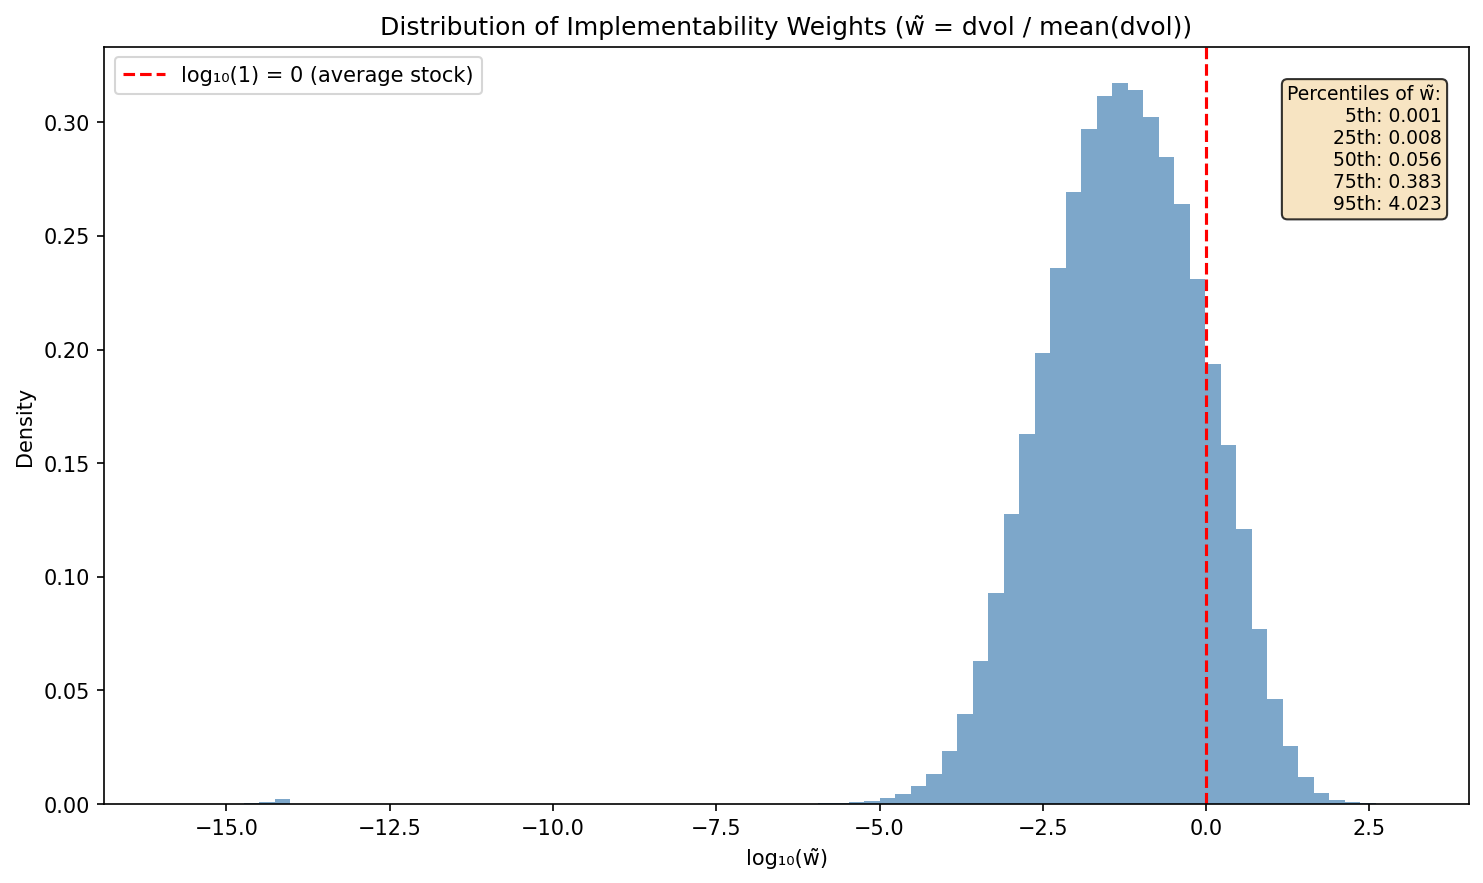
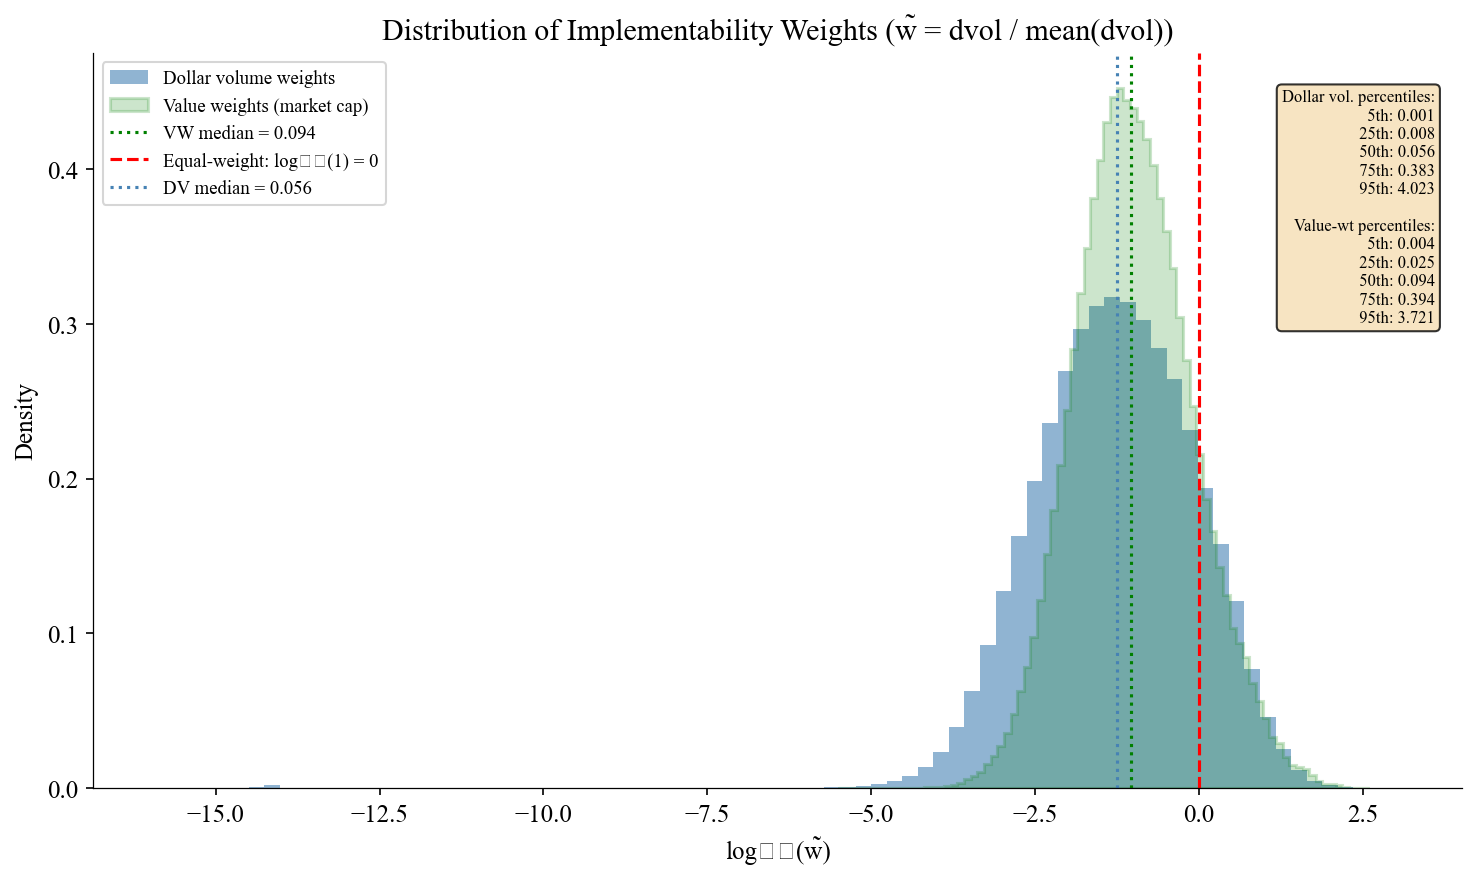
Clean figure style: serif font, no top/right spines, VW overlay visible
- Add _set_academic_style() to all plot functions (serif, thin axes, no box)
- Category bar chart: uniform steelblue, no per-category colors
- Weight distribution: VW overlay now visible (alpha=0.2, stepfilled)
- Fix recursion bug in _set_academic_style()

diff --git a/src/analysis/motivation.py b/src/analysis/motivation.py
@@ -549,6 +549,26 @@ def fama_macbeth_weight_regression(
 # ═════════════════════════════════════════════════════════════
 
 
+def _set_academic_style():
+    """Set matplotlib rcParams for clean academic figures."""
+    import matplotlib.pyplot as plt
+    plt.rcParams.update({
+        "font.family": "serif",
+        "font.serif": ["Computer Modern Roman", "Times New Roman", "DejaVu Serif"],
+        "mathtext.fontset": "cm",
+        "font.size": 12,
+        "axes.linewidth": 0.6,
+        "axes.spines.top": False,
+        "axes.spines.right": False,
+    })
+
+
+def _clean_axes(ax):
+    """Remove top and right spines for clean academic style."""
+    ax.spines["top"].set_visible(False)
+    ax.spines["right"].set_visible(False)
+
+
 def plot_divergence_bar_chart(
     stats_df: pd.DataFrame,
     broad_categories: dict[str, str],
@@ -569,6 +589,7 @@ def plot_divergence_bar_chart(
     top_n : If set, show only top N features. None = show all.
     """
     import matplotlib.pyplot as plt
+    _set_academic_style()
     from matplotlib.patches import Patch
 
     df = stats_df.copy()
@@ -667,6 +688,7 @@ def plot_divergence_by_category(
         # Characteristics
     """
     import matplotlib.pyplot as plt
+    _set_academic_style()
 
     df = cat_summary.copy()
     df = df.sort_values("Avg. |d_bar|", ascending=True)  # ascending for horizontal bars
@@ -677,15 +699,11 @@ def plot_divergence_by_category(
     n_sig = df["# Significant (|t| > 2)"].values
     n_total = df["# Characteristics"].values
 
-    # Category colors (same palette as individual bar chart)
-    cmap = plt.cm.get_cmap("tab10", n_bars)
-    colors = [cmap(i) for i in range(n_bars)]
-
     fig, ax = plt.subplots(figsize=(8, 5))
 
     bars = ax.barh(
         range(n_bars), avg_d,
-        color=colors, edgecolor="#333333", linewidth=0.5,
+        color="steelblue", edgecolor="none",
     )
 
     # Annotate: "sig/total" at the end of each bar
@@ -718,6 +736,7 @@ def plot_divergence_by_category(
     x_max = avg_d.max() * 1.45
     ax.set_xlim(0, x_max)
 
+
     plt.tight_layout()
     Path(output_path).parent.mkdir(parents=True, exist_ok=True)
     fig.savefig(output_path, dpi=150, bbox_inches="tight")
@@ -744,6 +763,7 @@ def plot_density_comparison(
     near 0 and 1) that are misleading.
     """
     import matplotlib.pyplot as plt
+    _set_academic_style()
 
     # Define the two panels
     panel_a_label = "Panel A: Liquidity-related characteristics"
@@ -856,6 +876,7 @@ def plot_weight_distribution(
         If provided, its normalized weights are overlaid as a second density.
     """
     import matplotlib.pyplot as plt
+    _set_academic_style()
 
     w = panel[w_col].dropna()
     w = w[w > 0]
@@ -881,8 +902,9 @@ def plot_weight_distribution(
         vw_valid = vw_valid[vw_valid > 0]
         log_vw = np.log10(vw_valid.values)
 
-        ax.hist(log_vw, bins=80, density=True, alpha=0.0, edgecolor="green",
-                linewidth=1.5, histtype="step", label="Value weights (market cap)")
+        ax.hist(log_vw, bins=80, density=True, color="green", alpha=0.2,
+                edgecolor="green", linewidth=1.5, histtype="stepfilled",
+                label="Value weights (market cap)")
 
         # VW percentiles
         vw_pcts = np.percentile(vw_valid.values, pcts)
@@ -1253,6 +1275,7 @@ def plot_quintile_coefficients(
     Shaded 95% CI bands. Flat = homogeneous, sloping = heterogeneous.
     """
     import matplotlib.pyplot as plt
+    _set_academic_style()
 
     ct = quintile_results["coef_table"]
     n = len(focal_features)
@@ -1323,6 +1346,7 @@ def plot_divergence_vs_heterogeneity(
     Returns Spearman rank correlation.
     """
     import matplotlib.pyplot as plt
+    _set_academic_style()
     from scipy.stats import spearmanr
 
     int_table = interaction_results["coef_table"]
@@ -1744,6 +1768,7 @@ def plot_importance_vs_illiquidity(
 ) -> float:
     """Scatter: Ī_j (y) vs -ρ̄_j (x). 143 points, label 15 focal."""
     import matplotlib.pyplot as plt
+    _set_academic_style()
     from scipy.stats import spearmanr
 
     common = avg_importance.index.intersection(illiq_relatedness.index)
@@ -1792,6 +1817,7 @@ def plot_importance_vs_liquid_r2(
 ) -> None:
     """Scatter: Ī_j (y) vs R²_j(liquid) (x). Label 15 focal."""
     import matplotlib.pyplot as plt
+    _set_academic_style()
 
     common = avg_importance.index.intersection(liquid_r2.index)
     imp = avg_importance[common]
@@ -1831,6 +1857,7 @@ def plot_r2_by_quintile(
 ) -> None:
     """Bar chart: OOS R² by liquidity quintile with full-sample reference."""
     import matplotlib.pyplot as plt
+    _set_academic_style()
 
     q_data = quintile_r2[quintile_r2["quintile"] != "Full"]
     full_r2 = quintile_r2[quintile_r2["quintile"] == "Full"]["pooled_r2"].values[0]
